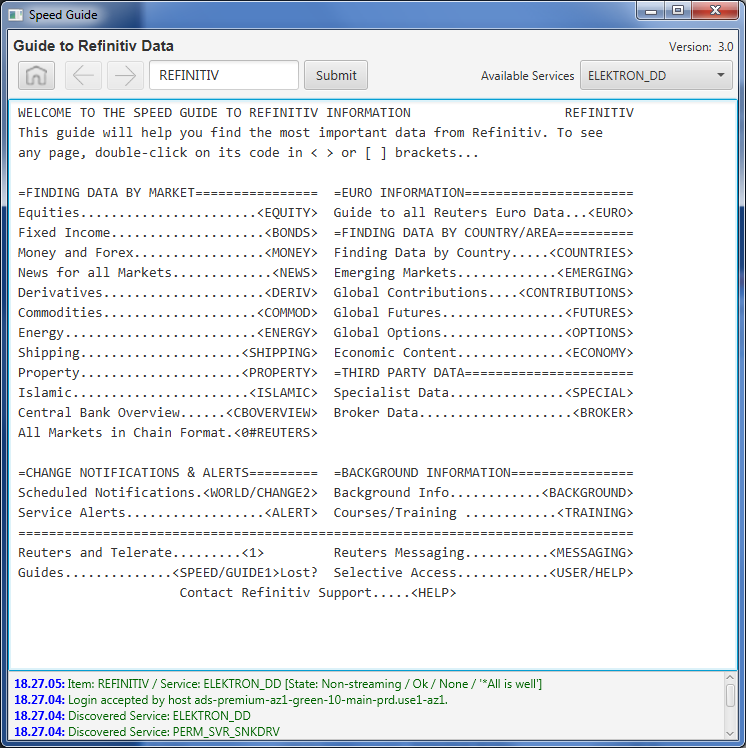
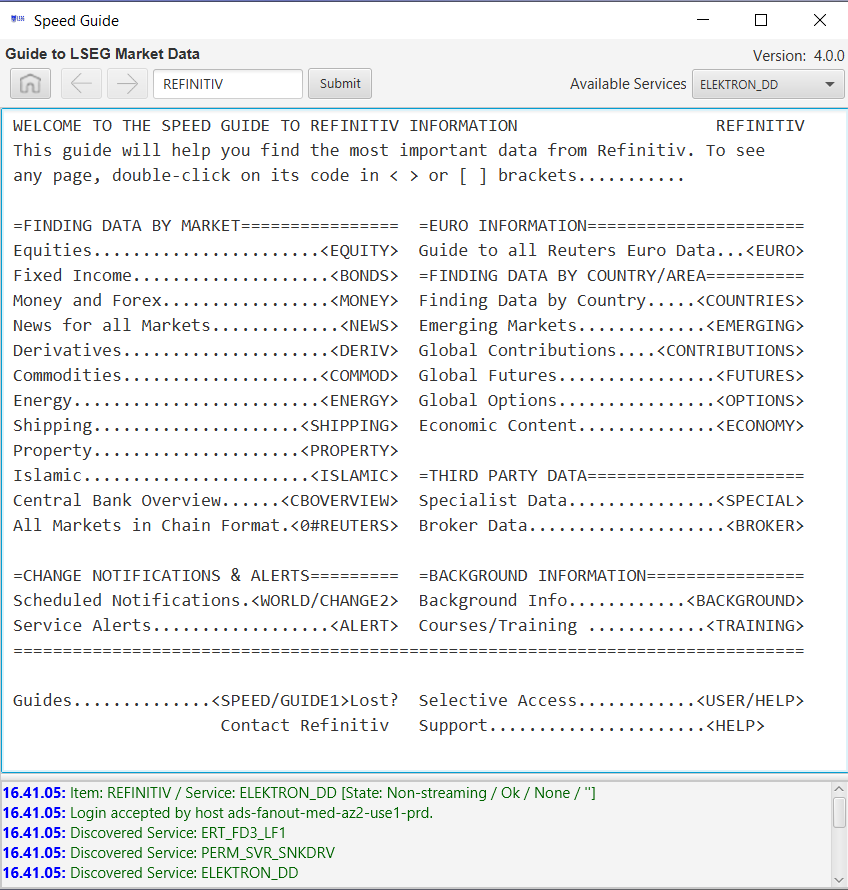
Rebranded source/added Version 2 authentication

diff --git a/README.md b/README.md
@@ -1,5 +1,5 @@
 # Speed Guide
-The Speed Guide utility allows users and developers, who do not have access to **Refinitiv Eikon/Refinitiv Workspace** desktop applications, a simple and quick way to easily browse market data content available within Refinitiv's Data Platform.  The following guide outlines the fundamental purpose of speed guides and provides basic instructions to use the utility.  In addition, outlines the components and instructions to build the tool using the source code available within this project.
+The Speed Guide utility allows users and developers, who do not have access to **LSEG Workspace/Eikon** desktop applications, a simple and quick way to easily browse market data content available within Refinitiv's Data Platform.  The following guide outlines the fundamental purpose of speed guides and provides basic instructions to use the utility.  In addition, outlines the components and instructions to build the tool using the source code available within this project.
 
 
 # Overview
@@ -12,7 +12,7 @@ The Speed Guide tool registers for Snapshot only data content (i.e, non-streamin
 
 ## Utility download
 
-The executable program and Readme is available for Download within the [Refinitiv Developer Platform](https://developers.refinitiv.com/en/api-catalog/elektron/elektron-sdk-java/download#refinitiv-real-time-sdk-tools).
+The executable program and Readme is available for Download within the [LSEG Developer Platform](https://developers.lseg.com/en/api-catalog/refinitiv-real-time-opnsrc/rt-sdk-java/download).
 
 ## Running the Utility
 
@@ -28,7 +28,7 @@ Double-clicking either the _.jar_ or _.exe_ file will not pass any required conn
 
 If the required parameters are not specified, the application will present a [Connection Dialog](#usage) requesting for the required connection details.  In either case, no console is involved thus no additional messages, such as log messages, can be viewed.
 
-**Note**: Launching the executable JAR requires the [Javaw](https://docs.oracle.com/javase/7/docs/technotes/tools/windows/java.html) program to open it.  When not associated, you will be presented with a request such as:
+**Note**: Launching the executable JAR requires the [Javaw](https://docs.oracle.com/javase/8/docs/technotes/tools/windows/java.html) program to open it.  When not associated, you will be presented with a request such as:
 
 ![program](images/jarExtension.png)
 
@@ -68,12 +68,19 @@ At the console, you can pass command-line parameters to the utility:
                             Position has no default.
         
     ************* Real-Time -- Optimized Connection Parameters **************
-    --machineId=machine ID  Required. Real-Time -- Optimized Machine ID/User required for OAuth authentication.
+    **** Version 1 Authentication >
+    --machineId=machine ID  Required. Real-Time -- Optimized Machine ID/User required for OAuth Password Grant.
                             Eg: GE-A-00000000-1-8888
-    --password=password     Required. Real-Time -- Optimized password required for OAuth authentication.
+    --password=password     Required. Real-Time -- OPtimized password required for OAuth Password Grant.
                             Eg: Sunshine_1_UserPass
-    --appKey=App Key        Required. Real-Time -- Optimized AppKey or Client ID required for server
-                            authentication. Eg: x888x8x88888888x88888x88x8888xx88x88888x
+    --appKey=App Key        Required. Real-Time -- Optimized AppKey or Client ID required for server authentication.
+                            Eg: x888x8x88888888x88888x88x8888xx88x88888x
+    **** Version 2 Authentication >
+    --clientId=Client ID    Required. Real-Time -- Optimized Client/Service Account ID required for OAuth Client Credentials.
+                            Eg: GE-XXXXXXXXXXXX
+    --clientSecret=secret   Required. Real-Time -- Optimized Client secret required for OAuth Client Credentials.
+                            Eg: xxxxxxxx-xxxx-xxxx-xxxx-xxxxxxxxxxxx
+
     --keyStore=keystorefile Optional. A Java KeyStore (JKS) required for secure package exchange.
                             Default: SpeedGuide provides a file for convenience.
     --keyStorePasswd=passwd Optional. Password associated with the specified keystore file.
@@ -83,19 +90,22 @@ At the console, you can pass command-line parameters to the utility:
     --h[elp]                Prints this screen
 The following example shows the command-line parameters to connect to either an ADS or directly to Real-Time -- Optimized in the cloud.
 
-    > SpeedGuide.exe --host=myserver:14002 --service=ELEKTRON_AD --user=testuser --appid=256 
-                     --position=127.0.0.1
-    > SpeedGuide.exe --machineId=GE-A-00000000-1-8888 --password=Sunshine_1_UserPass 
-                     --appKey=x888x8x88888888x88888x88x8888xx88x88888x
+  > SpeedGuide.exe --host=myserver:14002 --service=ELEKTRON_AD --user=testuser --appid=256 --position=127.0.0.1
+  > SpeedGuide.exe --clientId=GE-XXXX1234XXXX --clientSecret=9x999999-9xxx-9999-9x99-9x9xx99x9x99
+
 ## Usage
 
 When launching the utility specifying insufficient command-line options, the user will be presented with a Connection dialog.  The user can choose how they want to access the platform, i.e. through their deployed real-time services, via ADS:
 
 ![connect](images/connect.png)
 
-Or directly to the cloud via Real-Time -- Optimized:
+Or directly to the cloud via Real-Time -- Optimized (Version 1 authentication):
 
-![connect](images/connectERT.png)
+![connect](images/connectRTOv1.png)
+
+Or directly to the cloud via Real-Time -- Optimized (Version 2 authentication):
+
+![connect](images/connectRTOv2.png)
 
 The _Status Pane_ at the bottom of the main window provides some general feedback, whether success or failure.  In the case where a successful connection can be made to your specified server, the utility will launch the root Speed Guide item, i.e. **REFINITIV**.
 
@@ -130,7 +140,7 @@ For example:
 
 ![fieldlist](images/fieldList.png)
 
-Although not presented in a user-friendly display form, the native list of fields not only provides the user the ability to research all available fields for a given asset, but also the opportunity to better understand the structure of Refinitiv Data. 
+Although not presented in a user-friendly display form, the native list of fields not only provides the user the ability to research all available fields for a given asset, but also the opportunity to better understand the structure of LSEG Data. 
 
 #### Chains
 
@@ -140,49 +150,37 @@ To demonstrate, we manually entered the Nasdaq Top 25 index _.AV.O_:
 
 ![Chain](images/Chain.png)
 
-We can see from above, the record contains a preset number of elements (1-14) and the ability to pull up the next group of elements within the _next link_.  For a detailed outline of Chains, refer to the article: [Simple Chain Objects](https://developers.refinitiv.com/article/simple-chain-objects-ema-part-1) within the Developer Community.
+We can see from above, the record contains a preset number of elements (1-14) and the ability to pull up the next group of elements within the _next link_.  For a detailed outline of Chains, refer to the article: [Simple Chain Objects](https://developers.lseg.com/article/simple-chain-objects-ema-part-1) within the Developer Community.
 
 Feel free to navigate through the guide to discover many other assets and data elements offered by Refinitiv.
 
 # Solution Code
 
-The utility was developed using the [Refinitiv Real-Time SDK - Java](https://developers.refinitiv.com/en/api-catalog/elektron/elektron-sdk-java) and Java's GUI library Java 8 - JavaFx.
+The utility was developed using the [Refinitiv Real-Time SDK - Java](https://developers.lseg.com/en/api-catalog/refinitiv-real-time-opnsrc/rt-sdk-java) and Java's GUI library Java 8 - JavaFx.
 
 ## Prerequisites
 
 Required software components:
 
-* [Refinitiv Real-Time SDK - Java](https://developers.refinitiv.com/en/api-catalog/elektron/elektron-sdk-java) (2.0.1.L1 or greater) - Refinitiv interface to streaming, real-time services.
-* [JDK 8](http://www.oracle.com/technetwork/java/javase/downloads/jdk8-downloads-2133151.html) - Java Development Kit - version 8. 
-
-Optional software components:
-
-* [Eclipse](https://www.eclipse.org/efxclipse/install.html) - IDE for Java development (tested)
-* Other IDE's such as: [NetBeans](https://netbeans.org/), [Intellij IDEA](https://www.jetbrains.com/idea/)
-* [JavaFX Scene Builder](http://gluonhq.com/labs/scene-builder/) - UI to author JavaFX GUI-based applications
-* [Ant](https://ant.apache.org/) - A command-line tool to compile and run the SpeedGuide utility 
+* [Refinitiv Real-Time SDK - Java](https://developers.lseg.com/en/api-catalog/refinitiv-real-time-opnsrc/rt-sdk-java) (2.0.1.L1 or greater) - Refinitiv interface to streaming, real-time services.
+* [JDK 8](http://www.oracle.com/technetwork/java/javase/downloads/jdk8-downloads-2133151.html) - Java Development Kit - version 8.
+* [VScode](https://code.visualstudio.com/Download) - Visual Studio Code
 
 
 ## Building and running
 
-This package includes an Ant build.xml file to build and execute the SpeedGuide utility.  The build.xml Ant file requires the following environment variables:
+The Java FXML project is a Maven-based solution that generates the desired package for distribution.  As defined within the pom.xml configuration file, the packaging uses
+the Launch4j plugin to help prepare a Windows package.  Users can optionally remove this stanza if there is no desire to generate an EXE file for Windows.  If
+there is a desire to use this plugin, it assumes the following JDK installation (Note: you can update to suit your environment)
 
 ```
-   JAVA_HOME          - Root directory of your JDK 8 environment
-   ELEKTRON_JAVA_HOME - Root directory of your (EMA) Real-Time Java API installation
+  <jre>
+      <path>C:\Program Files\Java\jdk1.8.0_202</path>                            
+      <minVersion>1.8.0</minVersion>
+  </jre>
 ```
 
-Once setup, you can build and run the utility as follows:
-
-```
-To build:
-> ant
-
-To run:
-> ant run
-```
-
-
+The project was built using VS Code and Maven.
 
 ## Contributing
 
@@ -190,12 +188,18 @@ Please read [CONTRIBUTING.md](https://gist.github.com/PurpleBooth/b24679402957c6
 
 ## Authors
 
-* **Susana Chang** - Release 1.1.  *Initial work*
-* **Nick Zincone** - Release 2.0.  *Additional error checking/Utilized JavaFX Scene Builder to generate FXML*
-* **Nick Zincone** - Release 2.1.  Added DACS fields required for login to Elektron.
-* **Nick Zincone** - Release 3.0.  Added access to Real-Time -- Optimized, formally ERT in Cloud, streaming services.
-* **Nick Zincone** - Release 3.1.  Fixed connectivity issues and re branded.
+* **Nick Zincone** - Release 4.0.0 Added access to Real-Time -- Optimized v2 authentication.  Rebranded (LSEG).
 * **Nick Zincone** - Release 3.2.  Fixed dictionary download issue; rebuilt using newly branded (Refinitiv) SDK
+* **Nick Zincone** - Release 3.1.  Fixed connectivity issues and re branded.
+* **Nick Zincone** - Release 3.0.  Added access to Real-Time -- Optimized, formally ERT in Cloud, streaming services.
+* **Nick Zincone** - Release 2.1.  Added DACS fields required for login to Elektron.
+* **Nick Zincone** - Release 2.0.  *Additional error checking/Utilized JavaFX Scene Builder to generate FXML*
+* **Susana Chang** - Release 1.1.  *Initial work*
+
+
+
+
+
 
 ## License
 
